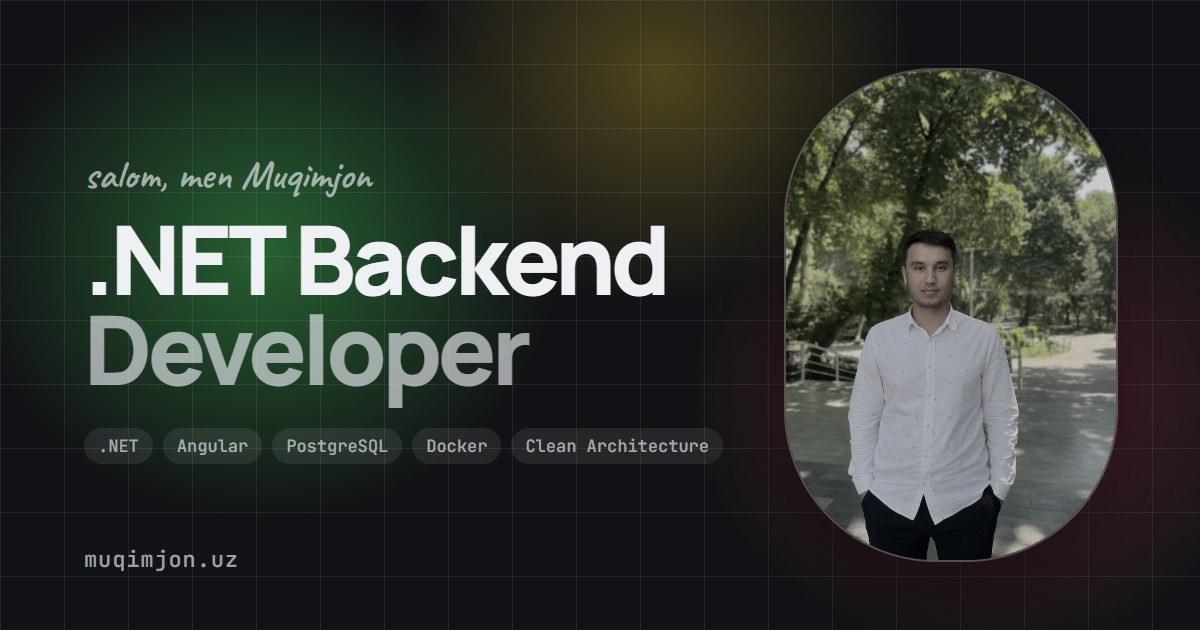
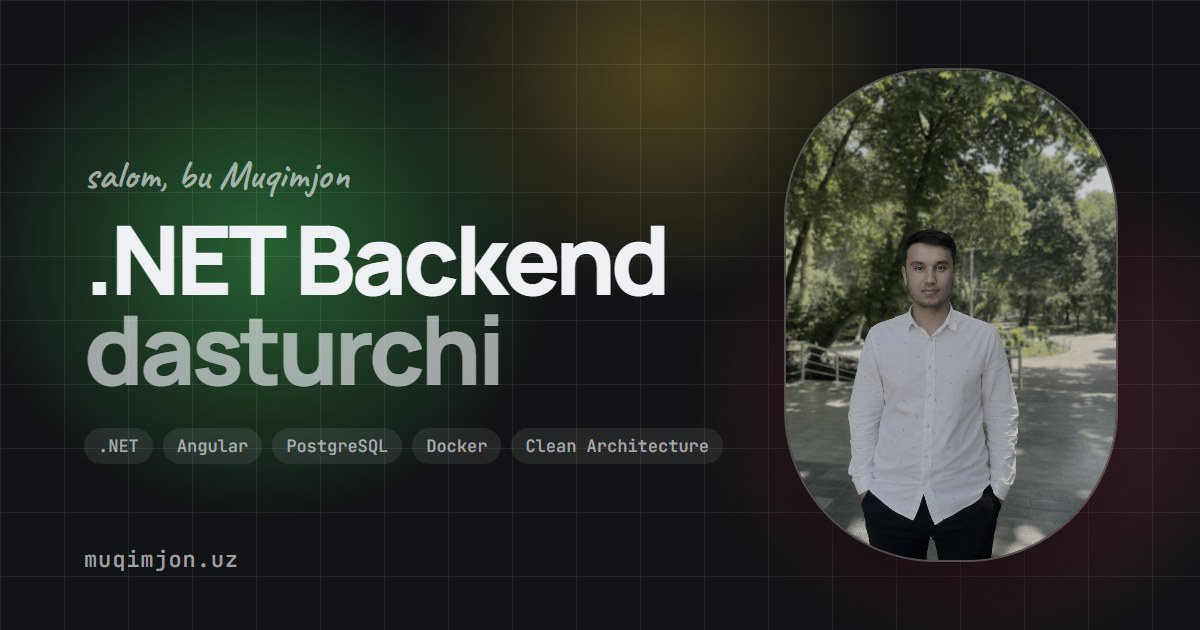
Refresh the link preview image
The Open Graph card still carried the old greeting and the English role.
Regenerate it with the current copy and version the URL so Telegram and
LinkedIn refetch instead of serving their cache.

Claude-Session: https://claude.ai/code/session_01BFqqE59ZSuTVJaBGgaViiA

Changed region(s): [[0.0617, 0.4825, 0.4625, 0.6635], [0.1542, 0.2413, 0.3083, 0.3317]]

diff --git a/src/index.html b/src/index.html
@@ -29,7 +29,7 @@
     <meta property="og:url" content="https://muqimjon.uz/" />
     <meta property="og:type" content="website" />
     <meta property="og:locale" content="uz_UZ" />
-    <meta property="og:image" content="https://muqimjon.uz/og.jpg" />
+    <meta property="og:image" content="https://muqimjon.uz/og.jpg?v=2" />
     <meta property="og:image:width" content="1200" />
     <meta property="og:image:height" content="630" />
     <meta name="twitter:card" content="summary_large_image" />
